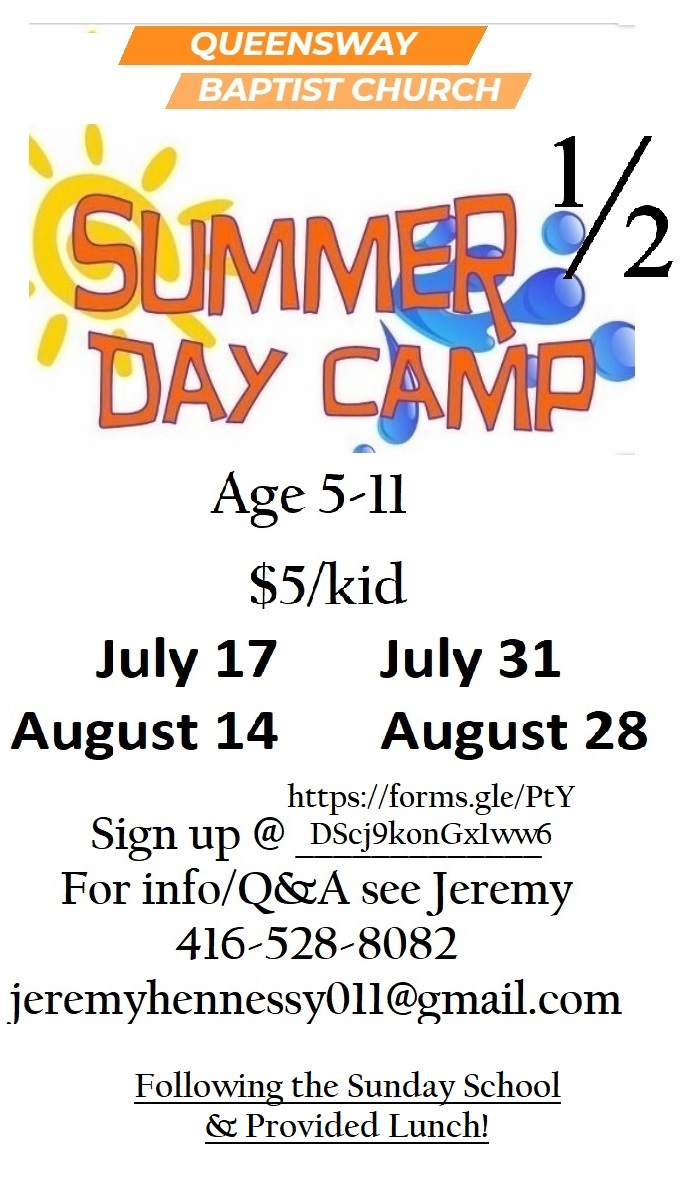
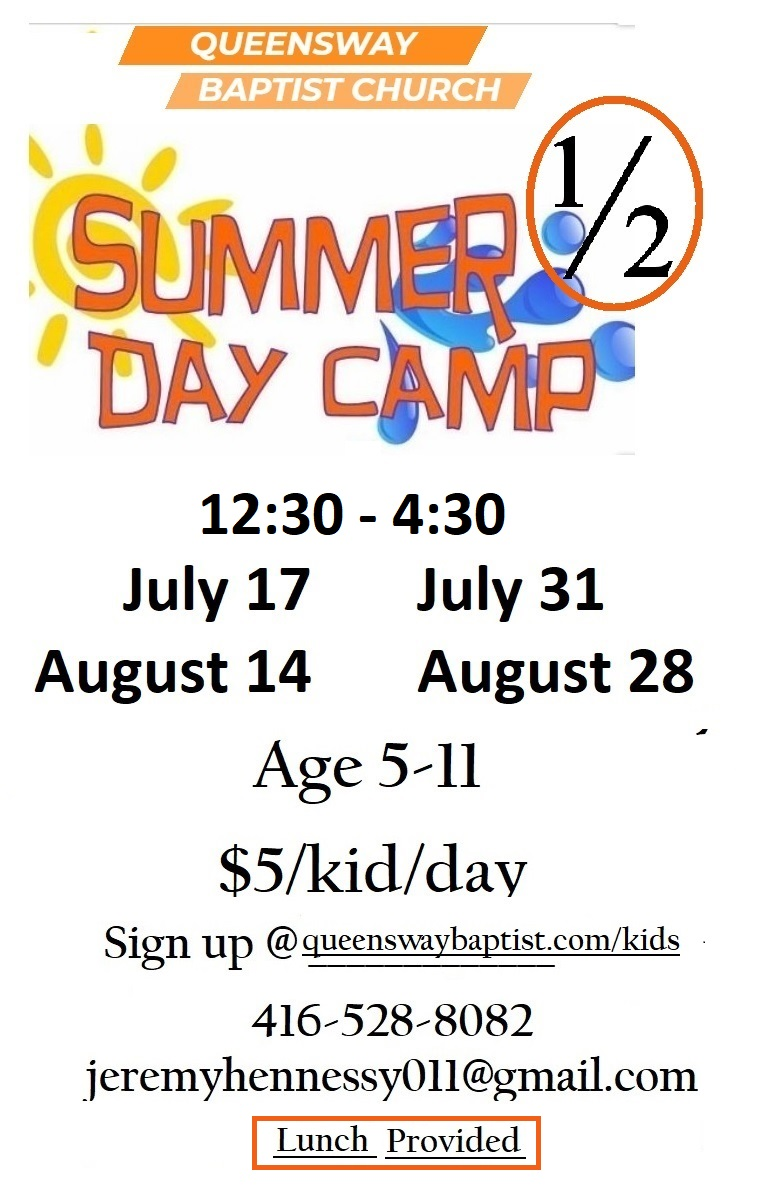
Updated kids camp flyer and form link

Changed region(s): [[0.0, 0.0, 0.9683, 0.9867], [0.1513, 0.0, 0.2118, 0.0617]]

diff --git a/src/components/kidsContent.js b/src/components/kidsContent.js
@@ -31,7 +31,7 @@ const KidsContent = () => (
               target="_blank"
               rel="noreferrer noopener"
               className={`button primary small ${styles.register}`}
-              href="https://forms.gle/PtYDScj9konGxlww6"
+              href="https://forms.gle/VT7SjCaU1nCNwA7i7"
             >
               Click here to register
             </a>
